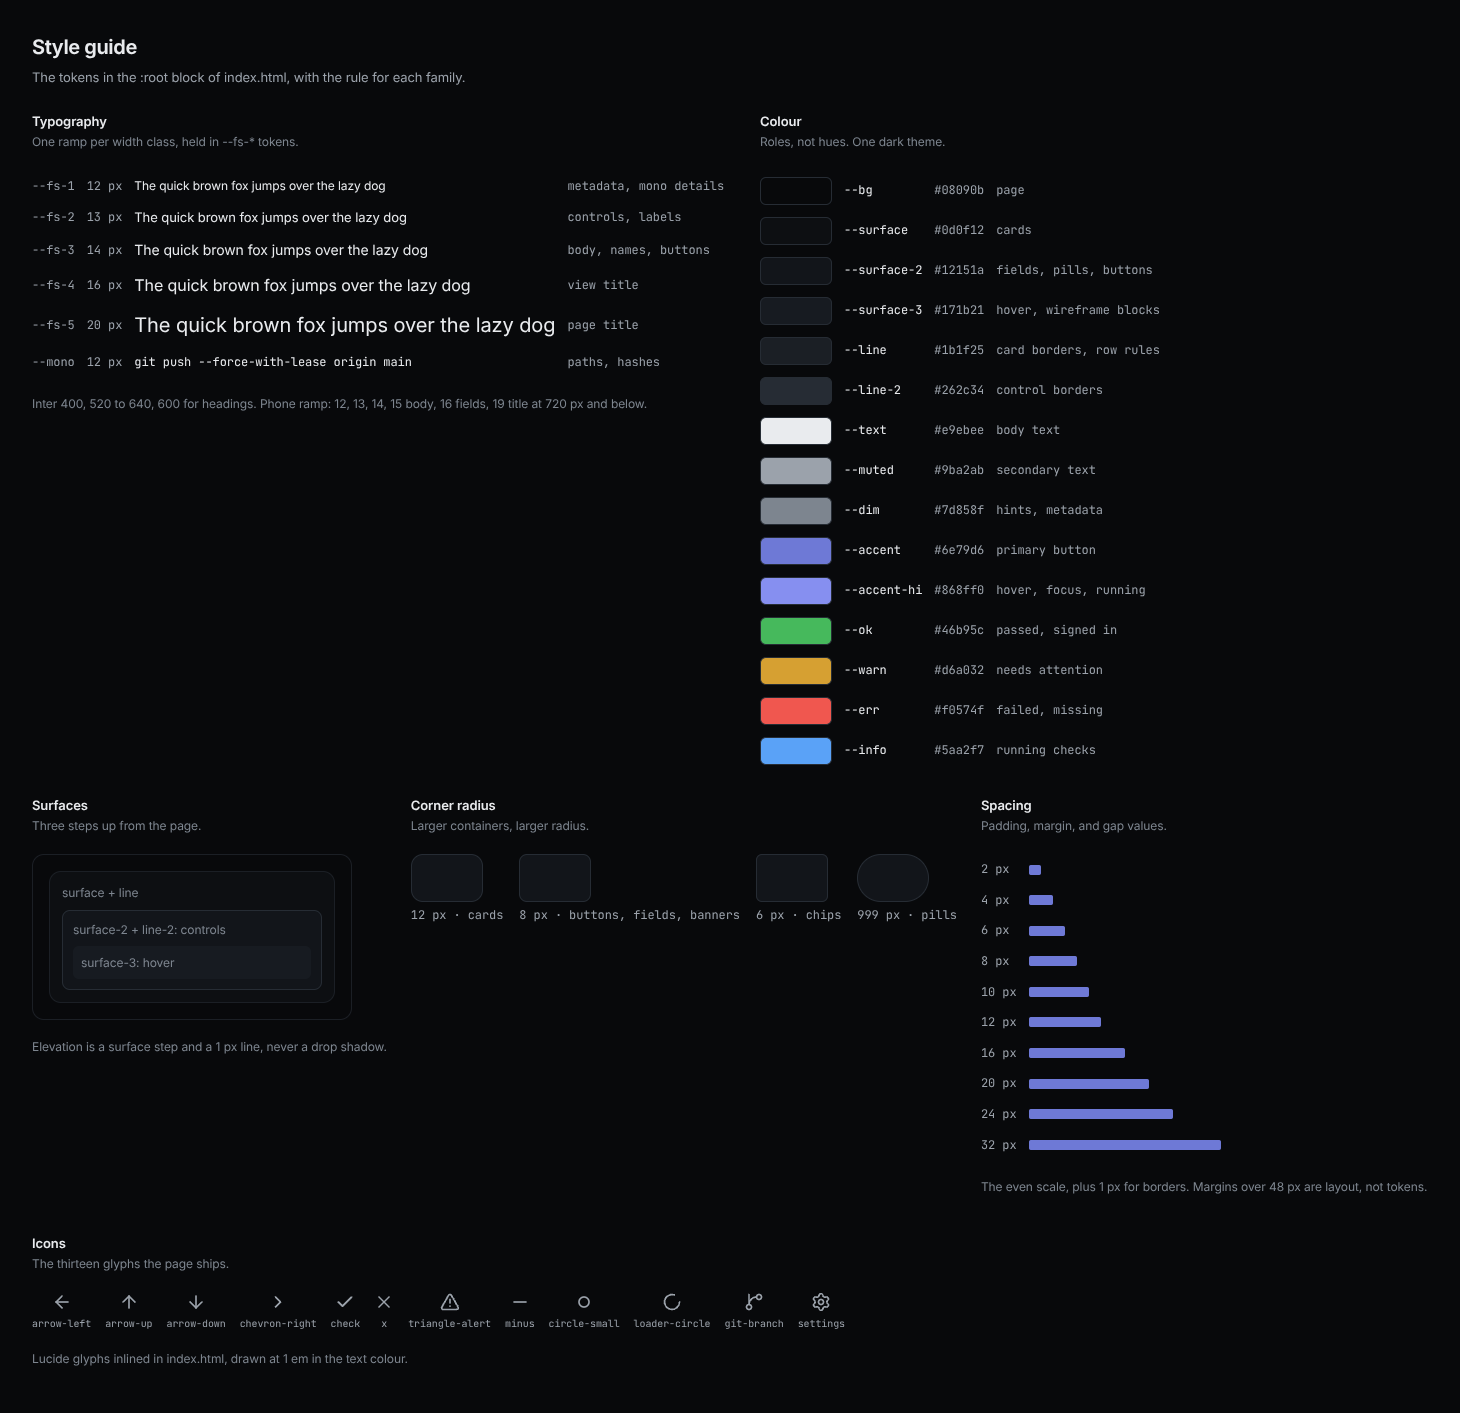
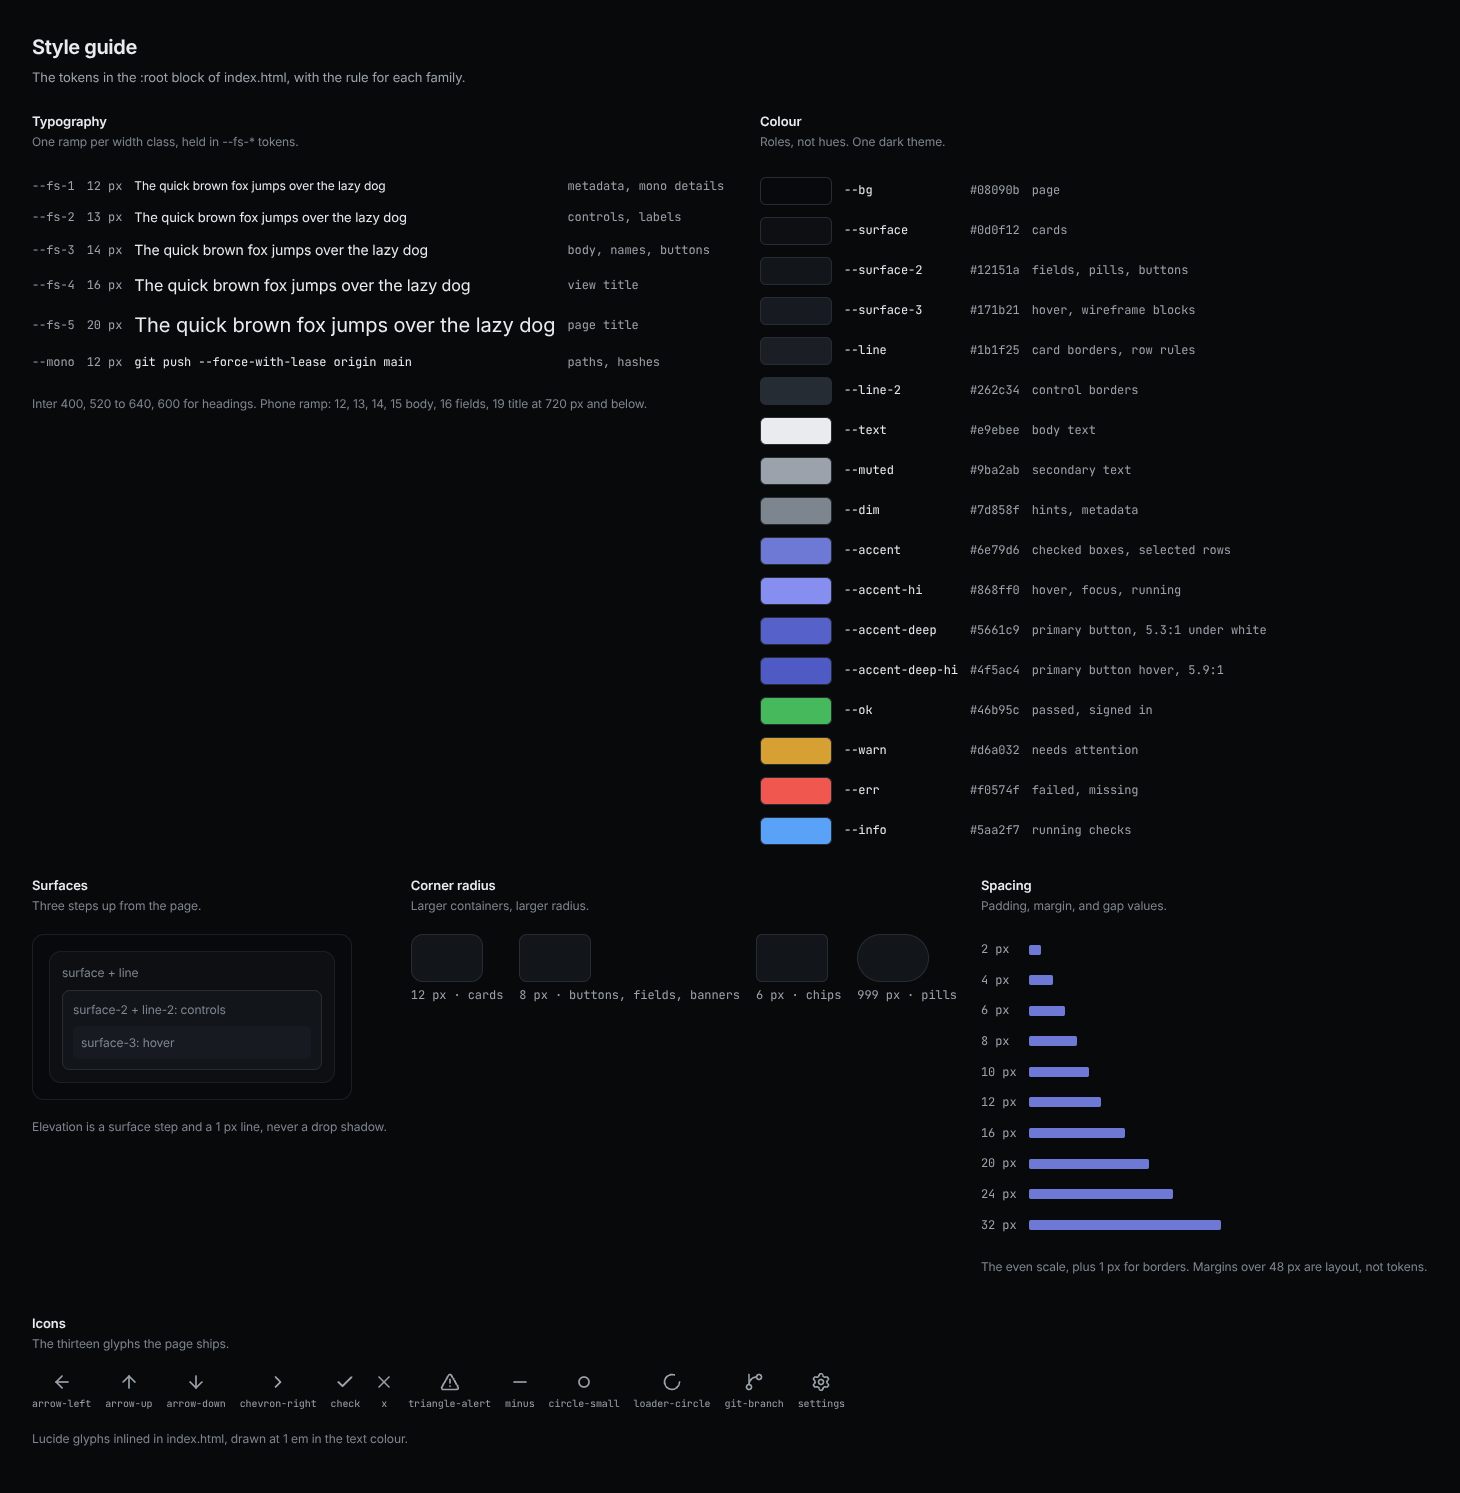
fix(ui): primary button fill reads at 5.3 to 1 under white

diff --git a/ui/static/index.html b/ui/static/index.html
@@ -45,6 +45,8 @@
     --dim: #7d858f;
     --accent: #6e79d6;
     --accent-hi: #868ff0;
+    --accent-deep: #5661c9;
+    --accent-deep-hi: #4f5ac4;
     --accent-soft: rgba(110, 121, 214, .14);
     --ok: #46b95c;
     --warn: #d6a032;
@@ -168,10 +170,10 @@
   .btn:active { transform: translateY(.5px); }
   .btn:disabled { opacity: .45; cursor: not-allowed; }
   .btn.primary {
-    background: var(--accent); border-color: #5c67c6; color: #fff;
+    background: var(--accent-deep); border-color: #5c67c6; color: #fff;
     box-shadow: inset 0 1px 0 rgba(255, 255, 255, .16), 0 1px 2px rgba(0, 0, 0, .5);
   }
-  .btn.primary:hover { background: var(--accent-hi); }
+  .btn.primary:hover { background: var(--accent-deep-hi); }
   /* a ghost button is a real button with a quieter fill, not a label: same
      border, same height, same contrast as the rest, so Copy and Cancel do not
      read as disabled next to the primary */

diff --git a/tests/test_ui.py b/tests/test_ui.py
@@ -622,3 +622,27 @@ def test_the_tree_route_lists_one_level_of_head(
   assert 'id="options-fold" aria-expanded="true" aria-controls="options"' in page
   assert 'id="options-sum"' in page
   assert not re.search(r"branch-opt|opt-sum|<details", page), "the branch-only fold"
+
+
+PAGE = ROOT / "ui" / "static" / "index.html"
+TEXT_CONTRAST = 4.5
+
+
+def luminance(colour: str) -> float:
+  def channel(hex2: str) -> float:
+    c = int(hex2, 16) / 255
+    return c / 12.92 if c <= 0.03928 else ((c + 0.055) / 1.055) ** 2.4
+
+  r, g, b = (channel(colour[i : i + 2]) for i in (1, 3, 5))
+  return 0.2126 * r + 0.7152 * g + 0.0722 * b
+
+
+def test_the_primary_button_fill_reads_under_white() -> None:
+  page = PAGE.read_text(encoding="utf-8")
+  tokens = dict(re.findall(r"--([a-z0-9-]+): (#[0-9a-f]{6});", page))
+  assert "background: var(--accent-deep); border-color" in page
+  assert ".btn.primary:hover { background: var(--accent-deep-hi); }" in page
+  for name in ("accent-deep", "accent-deep-hi"):
+    ratio = 1.05 / (luminance(tokens[name]) + 0.05)
+    assert ratio >= TEXT_CONTRAST, f"--{name} {tokens[name]} gives {ratio:.2f}:1"
+  assert luminance(tokens["accent-deep-hi"]) < luminance(tokens["accent-deep"])

diff --git a/scripts/design_boards.py b/scripts/design_boards.py
@@ -50,8 +50,10 @@ COLOURS = [
   ("text", "#e9ebee", "body text"),
   ("muted", "#9ba2ab", "secondary text"),
   ("dim", "#7d858f", "hints, metadata"),
-  ("accent", "#6e79d6", "primary button"),
+  ("accent", "#6e79d6", "checked boxes, selected rows"),
   ("accent-hi", "#868ff0", "hover, focus, running"),
+  ("accent-deep", "#5661c9", "primary button, 5.3:1 under white"),
+  ("accent-deep-hi", "#4f5ac4", "primary button hover, 5.9:1"),
   ("ok", "#46b95c", "passed, signed in"),
   ("warn", "#d6a032", "needs attention"),
   ("err", "#f0574f", "failed, missing"),

diff --git a/docs/design.md b/docs/design.md
@@ -37,8 +37,8 @@ The one design record for the arena-cleanup web app. The sections follow the nem
 
 ### Colour
 
-- Roles: `bg`, `surface`, `surface-2`, `surface-3`, `line`, `line-2`, `text`, `muted`, `dim`, `accent`, `accent-hi`, `accent-soft`, `ok`, `warn`, `err`, `info`.
-- One dark theme, `color-scheme: dark`. Contrast checks: not run.
+- Roles: `bg`, `surface`, `surface-2`, `surface-3`, `line`, `line-2`, `text`, `muted`, `dim`, `accent`, `accent-hi`, `accent-deep`, `accent-deep-hi`, `accent-soft`, `ok`, `warn`, `err`, `info`.
+- One dark theme, `color-scheme: dark`. Contrast checks: white on the primary button 5.3:1 at rest and 5.9:1 on hover. `accent` itself gives 3.9:1 under white, so it fills checked boxes and marks rows, never a text button.
 
 ### Type
 
@@ -139,6 +139,7 @@ The one design record for the arena-cleanup web app. The sections follow the nem
 - Accepted 2026-10-22: the card and the sidebar show how far each arena branch is ahead of the default branch. The clone's own drift stays out of sight. Nobody commits in the container, and the engine handles that divergence itself.
 - Accepted 2026-10-22: the primary button reads Clean & Push. The phase list keeps Publish for the push, tags, and cleanup step.
 - Accepted 2026-10-22: a tree selector for Remove paths. It reads `git ls-tree` of HEAD in the clone, so it works for path repos and never calls GitHub. File contents stay out. A path only old commits carried stays a typed chip.
+- Accepted 2026-10-23: the primary button takes `accent-deep`, 5.3:1 under white, and `accent-deep-hi` on hover. The `accent` token stays for fills and marks.
 - Accepted 2026-10-23: the options card puts the selects and Remove paths left, PR check timeout and the checkboxes right. Two column wrappers flow on their own, so a long path list never pushes the timeout down.
 - Accepted 2026-10-23: the page draws the checkboxes. `appearance: none` drops the browser box, so the boxes match the select and the fields in every browser.
 - Accepted 2026-10-22: the card Remove X moves from the action row to the top right corner. At rest it is a bare glyph, so the primary button stands alone. The red frame returns on hover, on press, and while armed.
